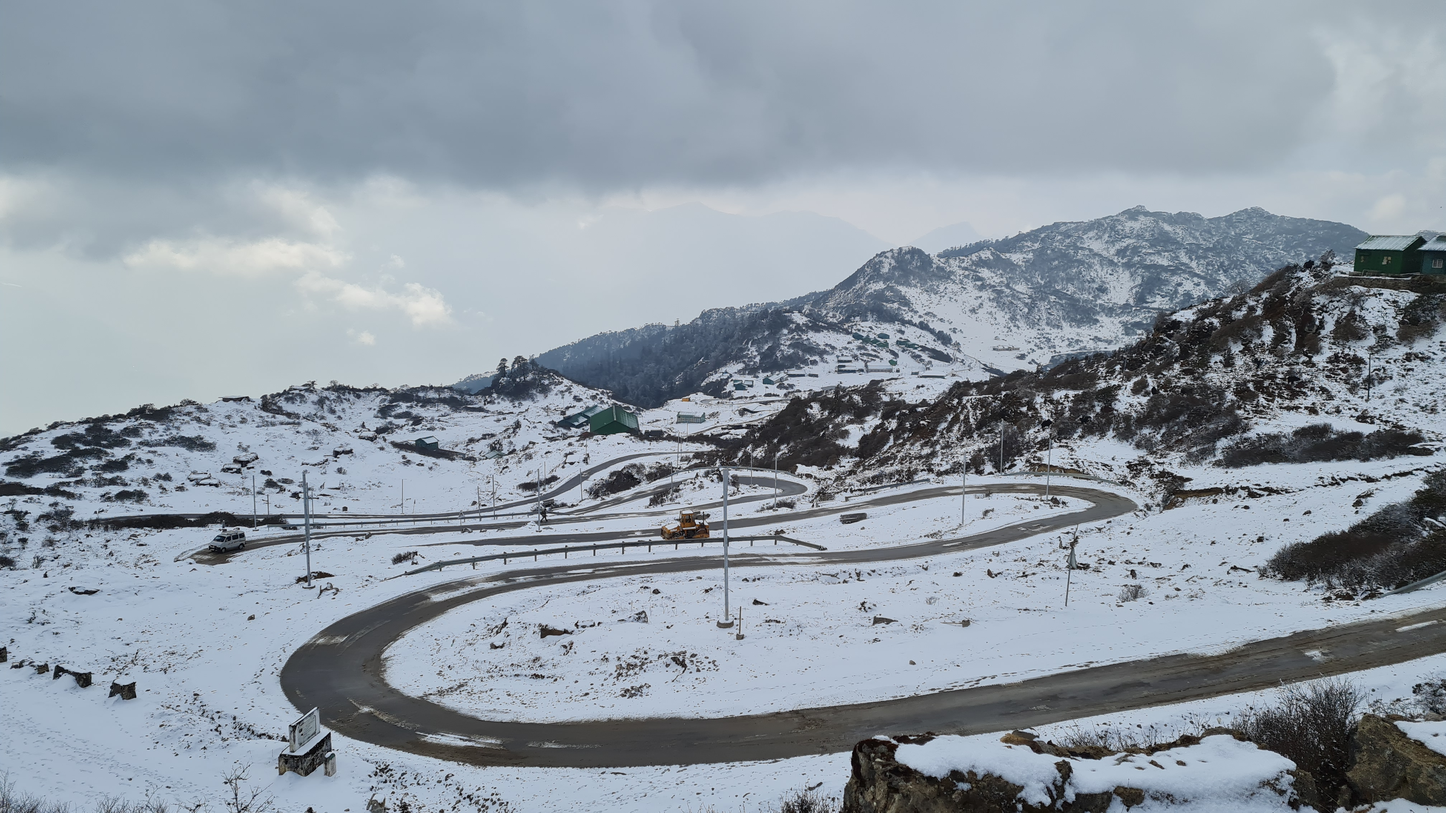
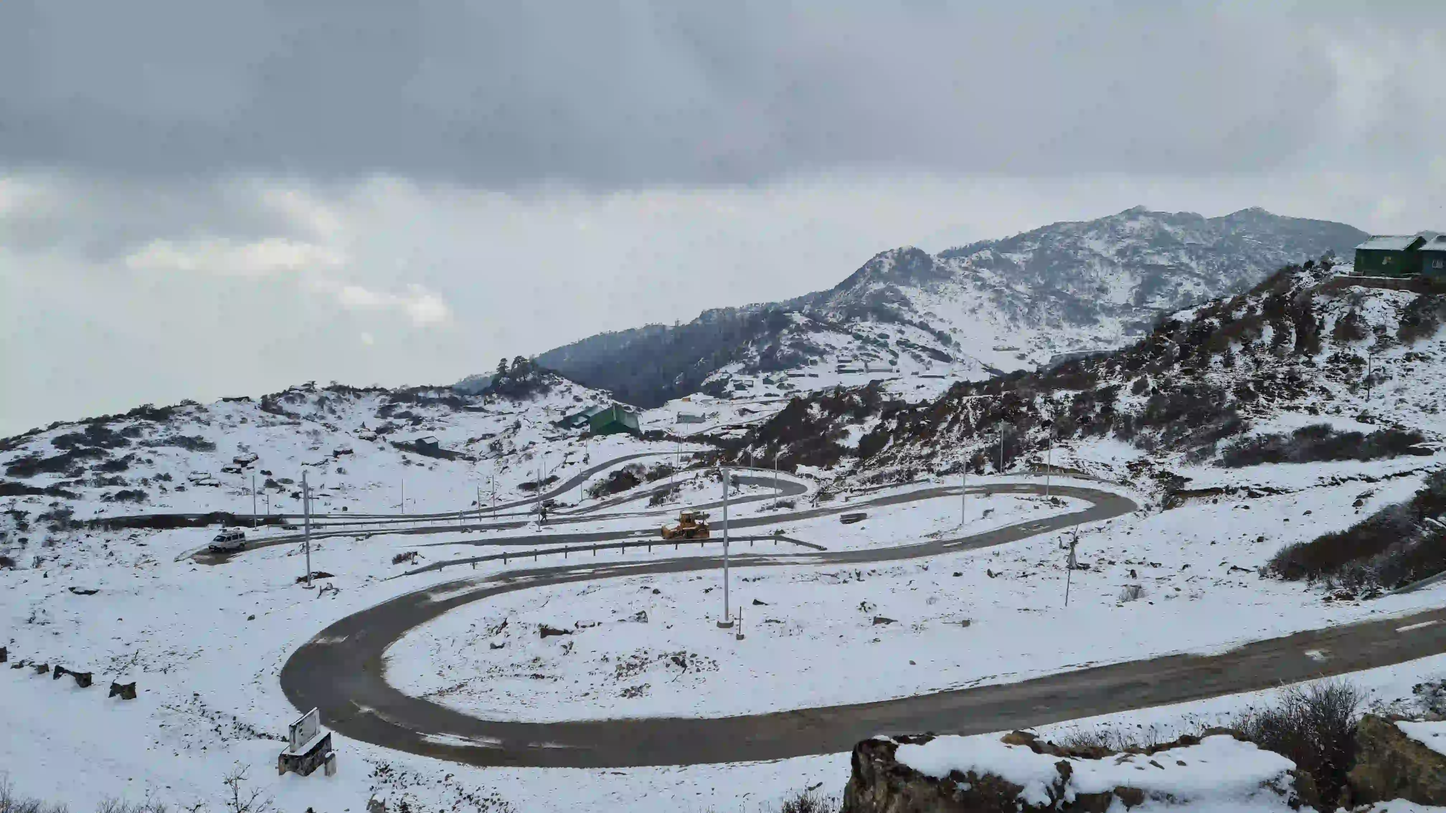
Compress Images

diff --git a/src/pages/PartnershipPage.jsx b/src/pages/PartnershipPage.jsx
@@ -13,13 +13,13 @@ import {
 import ArrowBackIosNewIcon from "@mui/icons-material/ArrowBackIosNew";
 import ArrowForwardIosIcon from "@mui/icons-material/ArrowForwardIos";
 
-import BannerImg from "../assets/partnership/banner.png";
+import BannerImg from "../assets/partnership/banner.webp";
 import ExpeditionImg from "../assets/partnership/Partnership.png";
 // import InfluncersImg1 from "../assets/partnership/Shirodhara-kerala 1.png"
 // import InfluncersImg2 from "../assets/partnership/Shirodhara-kerala 2.png"
 import PurposeImg from "../assets/partnership/image 10.png";
 import K2KImg from "../assets/partnership/image 12.png";
-import Partners1 from "../assets/partnership/OurSpiritualHome.png";
+import Partners1 from "../assets/partnership/OurSpiritualHome.webp";
 import k2k from "../assets/images/k2k.webp";
 import scotland from "../assets/images/scotland.webp";
 import romania from "../assets/images/romania.webp";

diff --git a/src/pages/GallerySection.jsx b/src/pages/GallerySection.jsx
@@ -3,8 +3,8 @@ import { Box, Container, Typography, Chip, IconButton } from "@mui/material";
 import rightArrow from "../assets/gallery/right-arrow.png";
 import leftArrow from "../assets/gallery/left-arrow.png";
 
-import balkansHero from "../assets/gallery/Balkans/Balkans.png";
-import indiaSpainHero from "../assets/gallery/India and Spain/IndiaSpain.png";
+import balkansHero from "../assets/gallery/Balkans/Balkans.webp";
+import indiaSpainHero from "../assets/gallery/India and Spain/IndiaSpain.webp";
 import indiaThailandHero from "../assets/gallery/India and Thailand/india-Thailand.jpg";
 import kashmirHero from "../assets/gallery/Kashmir/kashmir.avif";
 import kyrgyzstanHero from "../assets/gallery/Kyrgyzstan/Kyrgyzstan.png";

diff --git a/src/pages/InTheMedia.jsx b/src/pages/InTheMedia.jsx
@@ -1,7 +1,7 @@
 import React, { useState, useEffect } from "react";
 import { Box, Typography, Container, Button } from "@mui/material";
 import MediaCard from "../components/MediaCard";
-import mediabg from "../assets/media/mediabg.jpg";
+import mediabg from "../assets/media/mediabg.webp";
 
 import img1 from "../assets/media/herstory.avif";
 import img2 from "../assets/media/Women-Travel-Groups.jpg";

diff --git a/src/components/WhyDifferent/WhyDifferent.jsx b/src/components/WhyDifferent/WhyDifferent.jsx
@@ -1,7 +1,7 @@
 import { useEffect, useRef, useState } from "react";
 import "./WhyDifferent.css";
 
-import bgImage from "../../assets/images/whydifferent.jpg";
+import bgImage from "../../assets/images/whydifferent.webp";
 import wm1 from "../../assets/svg/wm1.svg";
 import wm2 from "../../assets/svg/wm2.svg";
 import wm3 from "../../assets/svg/wm3.svg";

diff --git a/src/pages/BlogPage.jsx b/src/pages/BlogPage.jsx
@@ -8,7 +8,7 @@ import {
   CardContent,
 } from "@mui/material";
 
-import heroImg from "../assets/blog/blogbg.jpg";
+import heroImg from "../assets/blog/blogbg.webp";
 import post1 from "../assets/blog/blogimage1.jpg";
 import post2 from "../assets/blog/blogimage2.png";
 import post3 from "../assets/blog/blogimage3.png";
